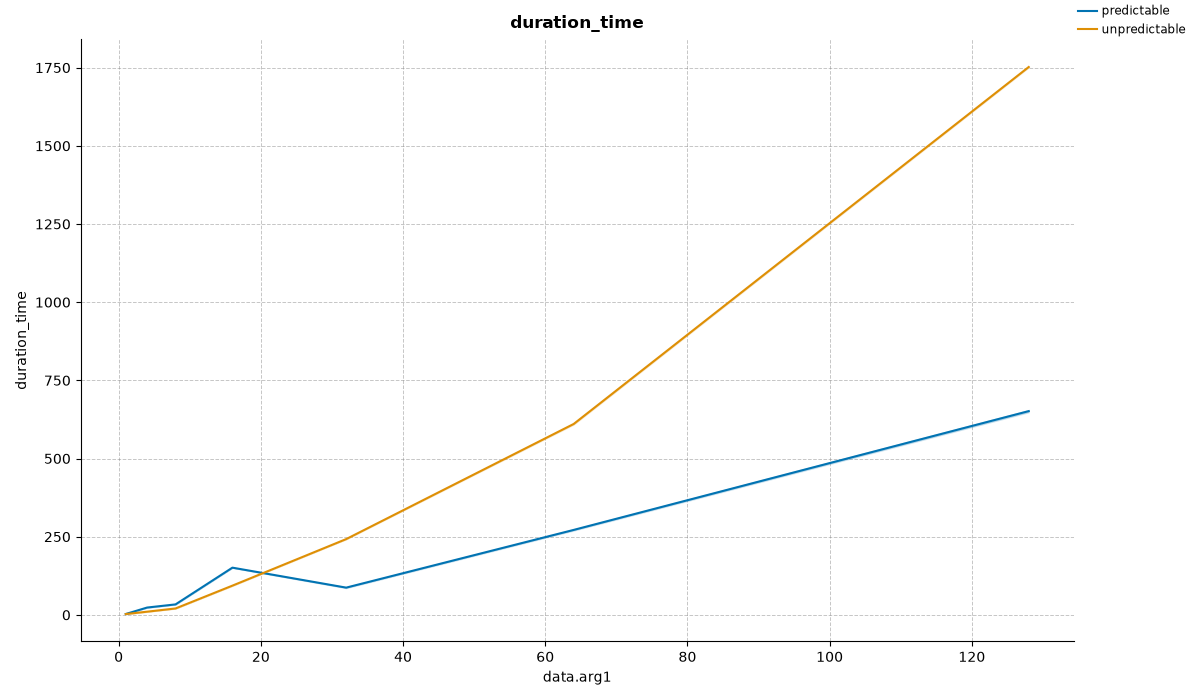
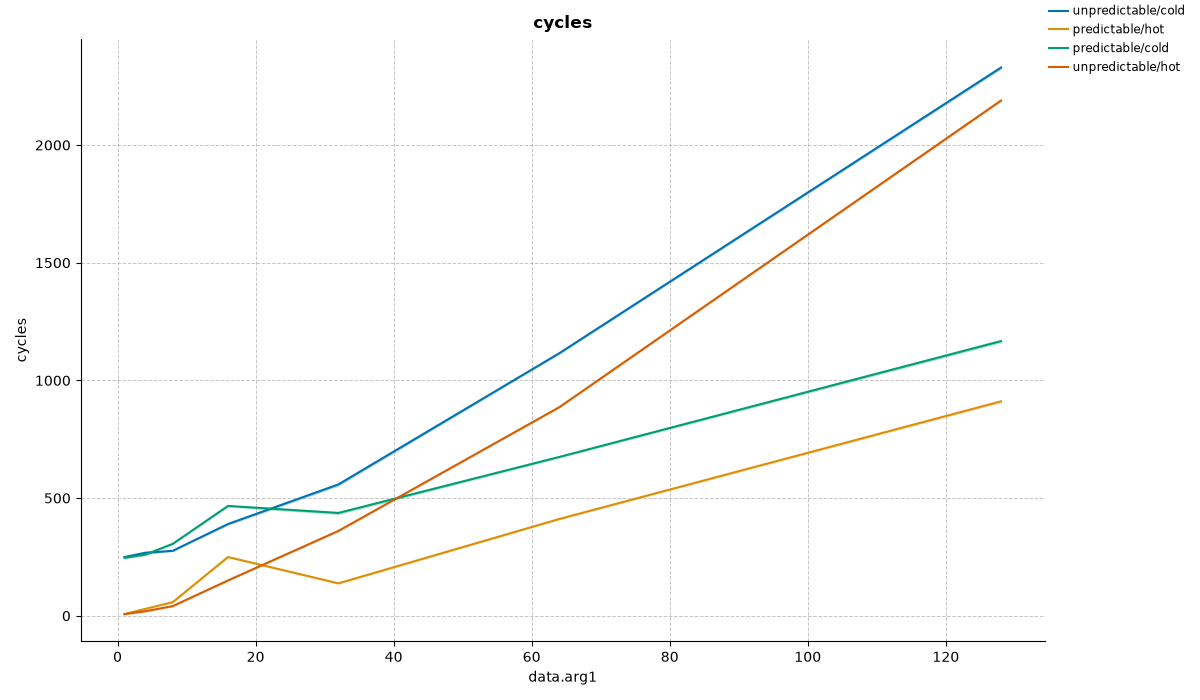
cppcon-2026

diff --git a/cppcon-2026/index.html b/cppcon-2026/index.html
@@ -57,7 +57,7 @@ Powered by linux-perf + perf-labs/perf
 ```
 
 <p align="left">
-<img src="images/cpu_fpga_gpu_tpu.jpg" style="width: 49%; background:none; border:none; box-shadow:none;" />
+<img src="images/cpu_fpga_gpu_tpu.jpg" style="width: 49%; background:none; border:none; box-shadow:none; margin: 0px 0px;" />
 </p>
 
 ##### - Intel - https://www.intel.com/content/www/us/en/developer/articles/technical/intel-sdm.html
@@ -67,6 +67,8 @@ Powered by linux-perf + perf-labs/perf
 ##### - ARM - https://developer.arm.com/documentation/ddi0487/latest
 <!-- .element: style="text-align:left; margin: 5px 0; font-size:22px" -->
 ##### - Apple - https://developer.apple.com/documentation/apple-silicon/cpu-optimization-guide
+<!-- .element: style="text-align:left; margin: 5px 0; font-size:22px" -->
+##### - Software Optimization Resources - https://www.agner.org/optimize
 <!-- .element: style="text-align:left; margin: 5px 0; font-size:22px" -->
 
 ---
@@ -1237,8 +1239,6 @@ b.attach_uprobe(name="./a.out", sym="fizz_buzz", fn_name="trace")
 ```
 <!-- .element: style="text-align:left; font-size:20px;" -->
 
----
-
 ```asm
 {
     "fizz_buzz": 15,
@@ -1649,9 +1649,14 @@ for n in 1 4 8 16 32 64 128; do                                            # sh
     --data.arg0=0x10000000
     --data.arg1=$n
     --data[0x10000000:]=[$(seq $n -1 1)]
-    --event duration_time
+    --event cycles,instrucions
     --event topdown-retiring,topdown-bad-spec,topdown-fe-bound,topdown-be-bound
     --output sort
+
+    --config.branch=predictable
+    --config.branch=unpredictable
+    --config.cache=hot
+    --config.cache=cold
 
   perf bench func std::sort --name sort-$n
     --mode latency
@@ -1659,7 +1664,7 @@ for n in 1 4 8 16 32 64 128; do                                            # sh
     --data.arg0=0x10000000
     --data.arg1=$n
     --data[0x10000000:]=[$(shuf -i 1-$n)]
-    --event duration_time
+    --event cycles,instrucions
     --event topdown-retiring,topdown-bad-spec,topdown-fe-bound,topdown-be-bound
     --output sort
 done
@@ -1767,9 +1772,11 @@ jitter
 </p>
 
 ```cpp
-find (scan - if/else)  → branch effecs
-find (map  - hash map) → branch/cache effects
-find (mph  - pext + lookup table) → cache effects
+find (scan  - if/else)  → branch effecs
+find (map   - hash map) → branch/cache effects
+find (ph    - pext + cmov + lookup table) → cache effects
+find (mph   - hash table in a register)
+find (simd  - N at the same time)
 ```
 
 https://github.com/qlibs/mph
@@ -1792,6 +1799,9 @@ constexpr auto symbols = array{
 ```cpp
 auto find(const string_like auto symbol) noexcept;
 ```
+
+TODO assembly
+-- always compare assemlby
 
 ----
 
@@ -1875,6 +1885,8 @@ https://jupyter.org
 ##### - ARM - https://developer.arm.com/documentation/ddi0487/latest
 <!-- .element: style="text-align:left; margin: 5px 0; font-size:22px" -->
 ##### - Apple - https://developer.apple.com/documentation/apple-silicon/cpu-optimization-guide
+<!-- .element: style="text-align:left; margin: 5px 0; font-size:22px" -->
+##### - Software Optimization Resources - https://www.agner.org/optimize
 <!-- .element: style="text-align:left; margin: 5px 0; font-size:22px" -->
 
 ```asm
